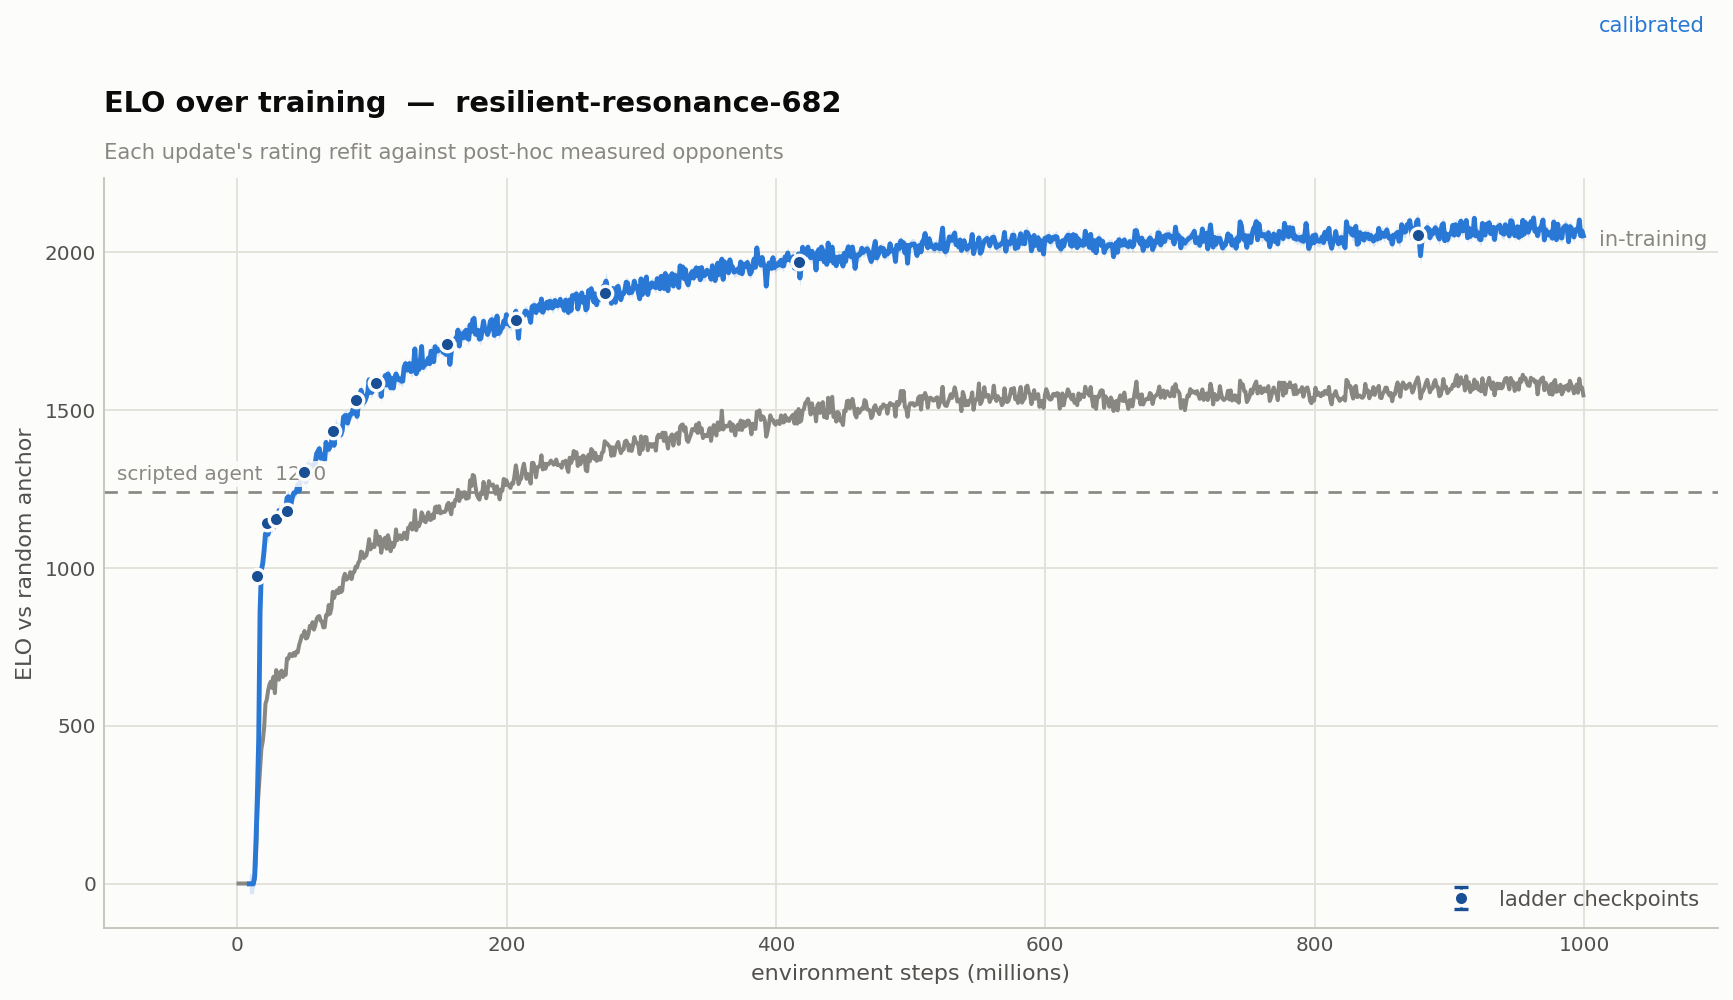
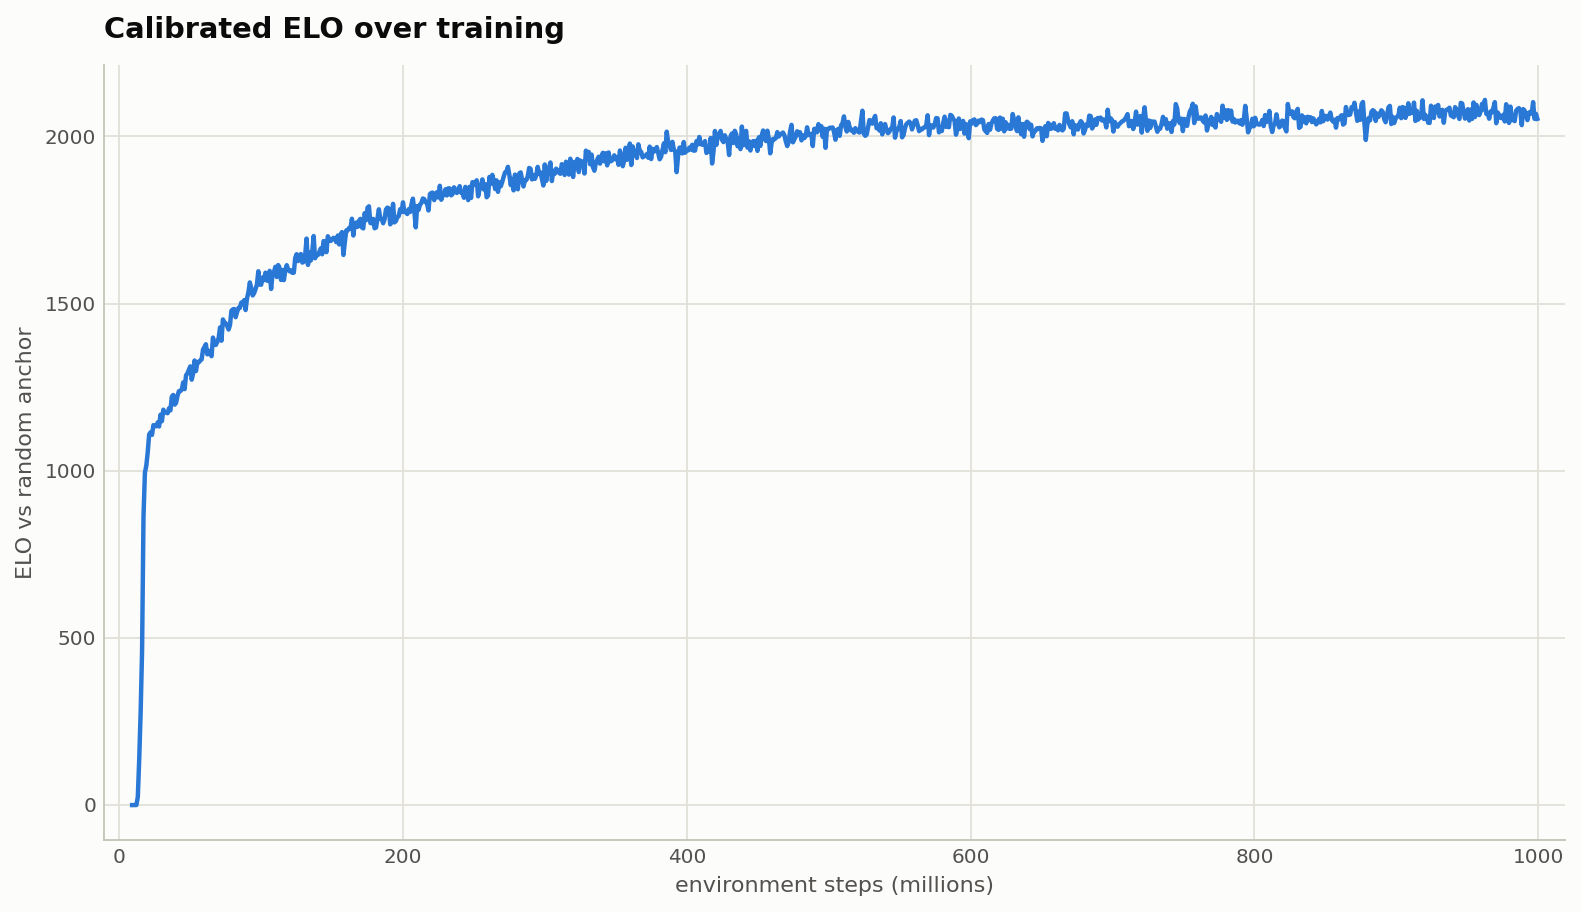
Simplify ELO figure to house style; fix log-axis labels; 2x2 health grid
The ELO figure now uses the same trend() emphasis style as the others — a single
calibrated line, no in-training curve, band, checkpoint dots, landmark, subtitle,
or run name. Drop the bespoke elo_curve builder. Fix direct-label placement: the
log scale is now set before labels are placed (previously they were positioned
against a linear axis, misplacing the next-state labels). Arrange the four
training-health figures as a 2x2 grid in the README.

diff --git a/src/boost_and_broadside/viz/charts.py b/src/boost_and_broadside/viz/charts.py
@@ -1,12 +1,10 @@
 """Figure builders that turn W&B-format history into paper-quality plots.
 
-Two builders cover the README's needs: ``trend`` for any metric over training
-(one series in the accent hue, or several in the categorical palette with
-direct-labelled ends), and ``elo_curve`` for the headline rating figure, which
-overlays the calibrated curve on the in-training one and marks the frozen ladder.
-
-Both read the arrays produced by ``viz.history`` and paint with ``viz.style``, so
-the in-training and calibrated sources are drawn by the very same code.
+One builder covers the README's needs: ``trend`` plots any metric over training —
+a single series in the accent hue (the emphasis form, no legend, the title names
+it) or several in the categorical palette with direct-labelled ends. It reads the
+arrays produced by ``viz.history`` and paints with ``viz.style``, so the
+in-training and calibrated sources are drawn by the very same code.
 """
 
 from dataclasses import dataclass
@@ -15,7 +13,7 @@ from pathlib import Path
 import numpy as np
 from matplotlib.ticker import PercentFormatter
 
-from boost_and_broadside.viz import history, style
+from boost_and_broadside.viz import style
 
 _X_LABEL = "environment steps (millions)"
 _MILLION = 1e6
@@ -28,15 +26,6 @@ class Line:
     x: np.ndarray
     y: np.ndarray
     label: str
-
-
-def _finish(axes, out: Path, figure, *, percent: bool, log_y: bool) -> Path:
-    axes.set_xlabel(_X_LABEL, color=style.INK_SECONDARY, fontsize=10)
-    if percent:
-        axes.yaxis.set_major_formatter(PercentFormatter(xmax=1.0))
-    if log_y:
-        axes.set_yscale("log")
-    return style.save(figure, out)
 
 
 def trend(
@@ -71,75 +60,19 @@ def trend(
         axes.plot(x, line.y, color=color, linewidth=2.0, zorder=3 + index)
         if multi:
             ends.append((x[-1], float(line.y[-1]), color, line.label))
-    if multi:
-        style.label_series_ends(axes, ends)
-        axes.margins(x=0.14)  # room for the end labels
-    else:
-        axes.margins(x=0.02)
 
     axes.set_ylabel(ylabel, color=style.INK_SECONDARY, fontsize=10)
-    return _finish(axes, out, figure, percent=percent, log_y=log_y)
-
-
-def elo_curve(
-    out: Path,
-    *,
-    calib_rows: list[dict],
-    calib_summary: dict,
-    wandb_rows: list[dict] | None = None,
-    run: str = "",
-) -> Path:
-    """The headline ELO figure: calibrated rating over training, in context.
-
-    The calibrated live curve is the subject — accent hue with a ±1 SE band — and
-    the in-training estimate rides behind it in muted ink as context. The frozen
-    ladder's calibrated checkpoints are scattered as points, and the scripted
-    agent (the one opponent shared across runs) is a dashed landmark, so the
-    reader can place where the policy actually got to.
-    """
-    figure = style.new_figure((11.0, 6.4))
-    axes = figure.add_subplot(111)
-    subtitle = "Each update's rating refit against post-hoc measured opponents"
-    style.style_axes(axes, f"ELO over training  —  {run}" if run else "ELO over training", subtitle)
-
-    scripted = calib_summary.get("elo/scripted")
-    if history._finite(scripted):
-        style.draw_reference_lines(axes, [("scripted agent", float(scripted))])
-
-    ends: list[tuple[float, float, str, str]] = []
-
-    # In-training estimate — context, behind everything, in muted ink.
-    if wandb_rows is not None:
-        wx, wy = history.series(wandb_rows, "ladder/elo/live")
-        if wx.size:
-            wx = wx / _MILLION
-            axes.plot(wx, wy, color=style.INK_MUTED, linewidth=1.8, zorder=2)
-            ends.append((wx[-1], float(wy[-1]), style.INK_MUTED, "in-training"))
-
-    # Calibrated live curve — the subject, with its ±1 SE band.
-    bx, by, lo, hi = history.series_band(
-        calib_rows, "ladder/elo/live", "ladder/elo/live_stderr"
-    )
-    if bx.size:
-        bx = bx / _MILLION
-        axes.fill_between(bx, lo, hi, color=style.BLUE, alpha=0.16, linewidth=0, zorder=3)
-        axes.plot(bx, by, color=style.BLUE, linewidth=2.2, zorder=5)
-        ends.append((bx[-1], float(by[-1]), style.BLUE, "calibrated"))
-
-    # Frozen ladder checkpoints — calibrated ratings as points with error bars.
-    steps, ratings, errs = history.checkpoint_points(calib_summary)
-    if steps.size:
-        axes.errorbar(
-            steps / _MILLION, ratings, yerr=np.where(np.isfinite(errs), errs, 0.0),
-            fmt="o", markersize=6.5, color=style.SHADE_DARK, ecolor=style.SHADE_DARK,
-            elinewidth=1.4, capsize=3.0, markeredgecolor=style.SURFACE, markeredgewidth=1.5,
-            zorder=6, label="ladder checkpoints",
-        )
-
-    style.label_series_ends(axes, ends)
-    axes.set_ylabel("ELO vs random anchor", color=style.INK_SECONDARY, fontsize=10)
     axes.set_xlabel(_X_LABEL, color=style.INK_SECONDARY, fontsize=10)
-    if steps.size:
-        axes.legend(frameon=False, labelcolor=style.INK_SECONDARY, fontsize=9.5, loc="lower right")
-    axes.margins(x=0.1)
+    if percent:
+        axes.yaxis.set_major_formatter(PercentFormatter(xmax=1.0))
+    if log_y:
+        axes.set_yscale("log")
+    axes.margins(x=0.14 if multi else 0.02)
+
+    # Place the direct labels last, and only after a draw has settled the scale
+    # and limits — label_series_ends maps data to axes-fraction, which is wrong
+    # if the y-scale (e.g. log) or the autoscaled limits are not yet final.
+    if multi:
+        figure.canvas.draw()
+        style.label_series_ends(axes, ends)
     return style.save(figure, out)

diff --git a/scripts/render_charts.py b/scripts/render_charts.py
@@ -45,13 +45,12 @@ def render(run: str, out_dir: Path) -> list[Path]:
 
     wandb_rows = history.load_history(wandb_dir / "history.jsonl")
     calib_rows = history.load_history(calib_dir / "history.jsonl")
-    calib_summary = history.load_summary(calib_dir / "summary.json")
     out_dir.mkdir(parents=True, exist_ok=True)
 
     written = [
-        charts.elo_curve(
-            out_dir / "elo_curve.png",
-            calib_rows=calib_rows, calib_summary=calib_summary, wandb_rows=wandb_rows, run=run,
+        charts.trend(
+            [_line(calib_rows, "ladder/elo/live", "ELO")], out_dir / "elo_curve.png",
+            title="Calibrated ELO over training", ylabel="ELO vs random anchor",
         ),
         charts.trend(
             [_line(wandb_rows, "overview/reward_mean", "reward")], out_dir / "reward.png",

diff --git a/README.md b/README.md
@@ -235,12 +235,11 @@ uv run --no-sync scripts/render_charts.py            # -> docs/results/*.png
 
 ### Skill over training
 
-The headline is ELO against a fixed random anchor. The **calibrated** curve is each
+The headline is ELO against a fixed random anchor. This is the **calibrated** curve: each
 update's live policy re-rated post-hoc against opponents whose ratings a full tournament
-has pinned down (`--mode elo_calibrate`), which recovers what the policy was actually
-worth free of the in-training rating filter's drift — it clears the scripted agent by
-~800 ELO and lands well above the in-training estimate. Points are the frozen ladder
-checkpoints; the dashed rule is the scripted agent, the one opponent shared across runs.
+has pinned down (`--mode elo_calibrate`), recovering what the policy was actually worth
+free of the in-training rating filter's drift. It reaches ~2050 — roughly 800 ELO clear of
+the scripted agent.
 
 ![Calibrated ELO over training](docs/results/elo_curve.png)
 
@@ -255,10 +254,10 @@ self-play beyond anything the scripted opponent can measure.
 The critic's aggregate explained variance, the mean episode reward, and the PPO
 diagnostics (update KL and clip fraction) over the run:
 
-![Critic explained variance](docs/results/explained_variance.png)
-![Mean episode reward](docs/results/reward.png)
-![Policy update KL divergence](docs/results/kl.png)
-![PPO clip fraction](docs/results/clip_fraction.png)
+| | |
+|:---:|:---:|
+| ![Critic explained variance](docs/results/explained_variance.png) | ![Mean episode reward](docs/results/reward.png) |
+| ![Policy update KL divergence](docs/results/kl.png) | ![PPO clip fraction](docs/results/clip_fraction.png) |
 
 ### Next-state prediction
 
